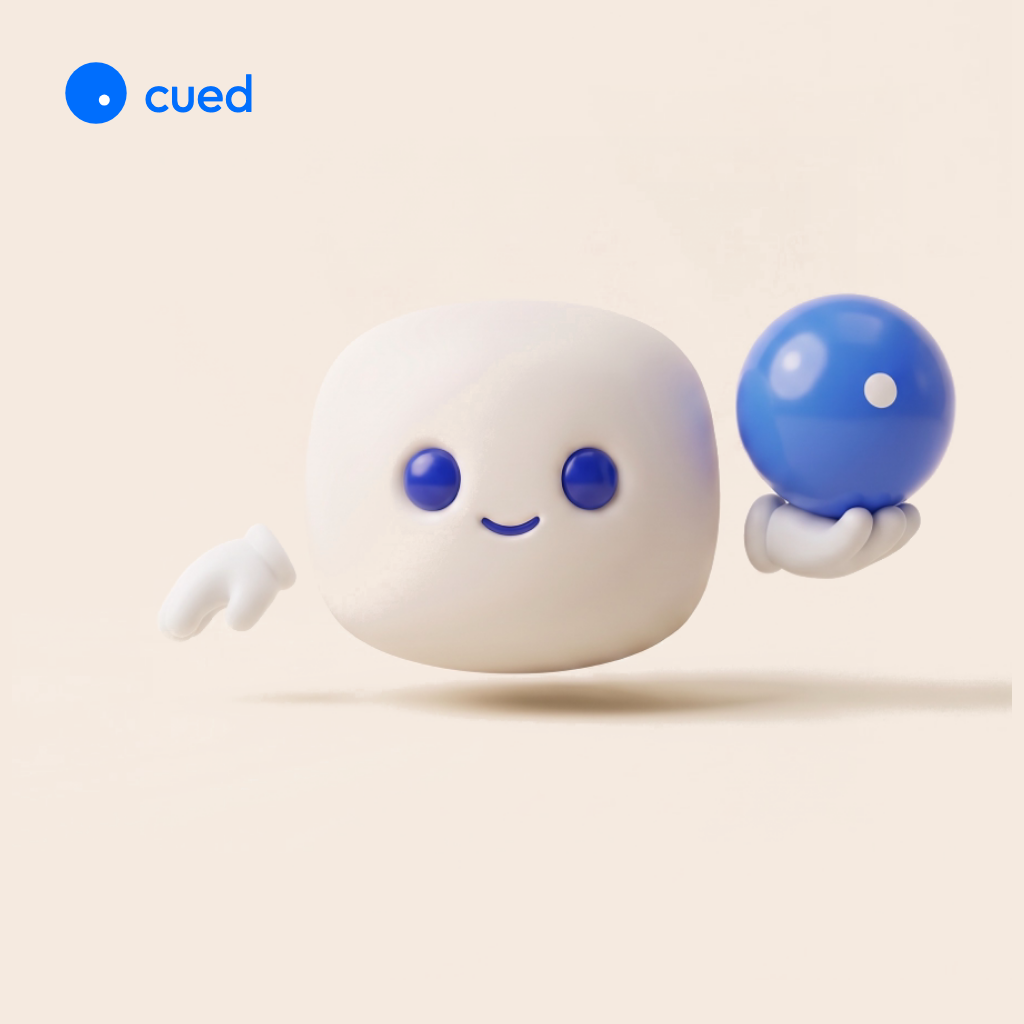
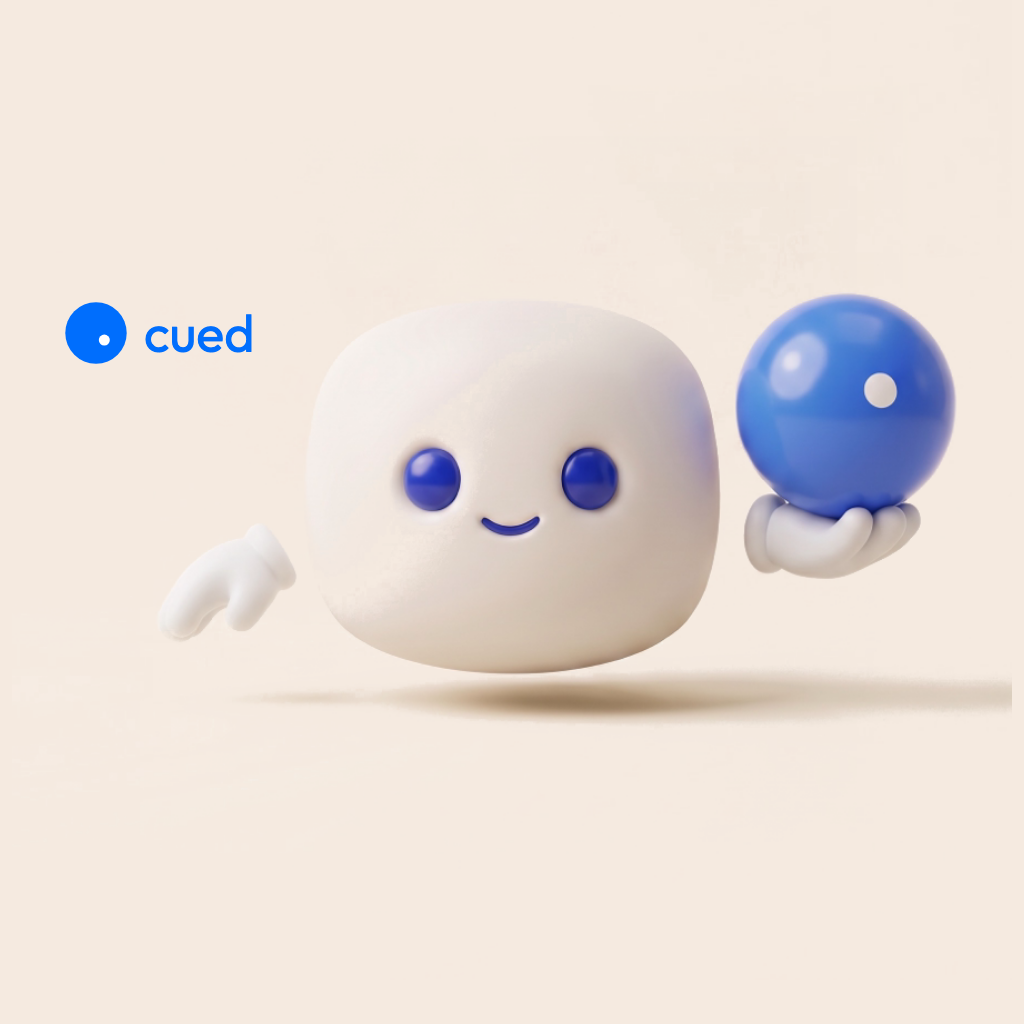
demo-site share card: "the fitness coach that lives in your texts."; wide image first so Instagram keeps the brand
Instagram crops the first og:image to landscape — square-first lost the
brand off the top. Wide goes first now (iMessage plays the video either
way), and the square's brand moves into the centre band so a landscape
crop still keeps it. Card line and og/twitter titles gain "fitness".

Changed region(s): [[0.0625, 0.0625, 0.25, 0.125], [0.0625, 0.2812, 0.25, 0.375]]

diff --git a/demo-site/index.html b/demo-site/index.html
@@ -31,32 +31,33 @@
 <title>cued — the fitness coach that lives in your texts.</title>
 <meta name="description" content="Cued is an AI fitness coach for college students that works over iMessage or SMS: workouts, meals and check-ins planned around your real schedule. With your permission it reads your Google Calendar, Canvas and Fitbit/Pixel Watch (Google Health).">
 <!-- Link-preview card. Absolute URLs on purpose — many scrapers (iMessage,
-     Slack, X) ignore root-relative image paths. Square first for the chat apps
-     that crop to square; wide for timelines. og:video lets iMessage (and a few
+     Slack, X) ignore root-relative image paths. WIDE first: Instagram and the
+     timeline apps crop the first image to landscape (square-first lost the
+     brand off the top, 2026-11-14); iMessage plays the video regardless. og:video lets iMessage (and a few
      others) play the hero clip in the bubble; everything else falls back to the
      image. Regenerate the images from .context/og/card.html + square.html. -->
 <meta property="og:site_name" content="cued">
-<meta property="og:title" content="cued — the coach that lives in your texts.">
+<meta property="og:title" content="cued — the fitness coach that lives in your texts.">
 <meta property="og:description" content="an AI fitness coach over iMessage or SMS. it knows your classes, replaces your lift and meal apps, and texts first. nothing to download.">
 <meta property="og:url" content="https://cued.fit/demo-site/">
 <meta property="og:type" content="website">
+<meta property="og:image" content="https://cued.fit/images/og-image-cued-v2.png">
+<meta property="og:image:width" content="1200">
+<meta property="og:image:height" content="630">
+<meta property="og:image:type" content="image/png">
+<meta property="og:image:alt" content="cued — the fitness coach that lives in your texts.">
 <meta property="og:image" content="https://cued.fit/images/og-image-cued-v2-square.png">
 <meta property="og:image:width" content="1024">
 <meta property="og:image:height" content="1024">
 <meta property="og:image:type" content="image/png">
 <meta property="og:image:alt" content="cued, a round white mascot holding a blue cue ball, on cream.">
-<meta property="og:image" content="https://cued.fit/images/og-image-cued-v2.png">
-<meta property="og:image:width" content="1200">
-<meta property="og:image:height" content="630">
-<meta property="og:image:type" content="image/png">
-<meta property="og:image:alt" content="cued — the coach that lives in your texts.">
 <meta property="og:video" content="https://cued.fit/assets/hero/cued-hero.mp4">
 <meta property="og:video:secure_url" content="https://cued.fit/assets/hero/cued-hero.mp4">
 <meta property="og:video:type" content="video/mp4">
 <meta property="og:video:width" content="1280">
 <meta property="og:video:height" content="720">
 <meta name="twitter:card" content="summary_large_image">
-<meta name="twitter:title" content="cued — the coach that lives in your texts.">
+<meta name="twitter:title" content="cued — the fitness coach that lives in your texts.">
 <meta name="twitter:description" content="an AI fitness coach over iMessage or SMS. it knows your classes, replaces your lift and meal apps, and texts first. nothing to download.">
 <meta name="twitter:image" content="https://cued.fit/images/og-image-cued-v2.png">
 <link rel="icon" type="image/svg+xml" href="/images/favicon.svg">

diff --git a/CLAUDE.md b/CLAUDE.md
@@ -102,6 +102,6 @@ Below the hero, the tour is a plain vertical flow (`.sec--pin` is now just a hoo
 - `images/hero-drawing.png` — the `the-one.png` Campanile drawing, cropped to the art band (1920×650), paper-gray background keyed to transparency, ink recolored to the brand blue. Referenced by the `index.html` hero, shown fully drawn at load (the SVG stroke-mask trace machinery remains but is set complete — see the `.hero-art` comment in `index.html`).
 - `images/dinner-plate.jpg` — real plate photo (tri-tip, sweet potatoes, broccoli/cauliflower) sent as the user's photo attachment in the "i know what's for dinner" section (1000×855 JPEG).
 - `images/tj-receipt.jpg` — real Trader Joe's receipt photo (Berkeley, 1885 University Ave), formerly the user's photo attachment in the "i read receipts" section (972×1200 JPEG). Unreferenced since the 2026-10-05 tour compression; kept in case the receipt beat returns.
-- `images/og-image-cued.png` and `og-image-cued-square.png` are the root page's link-preview cards (previous design's blue, `#1086FF`; still need regenerating). `images/og-image-cued-v2.png` (1200×630) and `og-image-cued-v2-square.png` (1024²) are the demo-site's: the ball-render mascot on cream with the brand and "the coach that lives in your texts." — composed in `.context/og/card.html` / `square.html` and rendered with headless Chrome (2026-11-14). The demo page's tags use ABSOLUTE `https://cued.fit/…` URLs (root-relative ones are ignored by iMessage/Slack/X scrapers), square first for chat apps, and `og:video` pointing at the hero's first clip so iMessage plays it in the bubble; everything else shows the image.
+- `images/og-image-cued.png` and `og-image-cued-square.png` are the root page's link-preview cards (previous design's blue, `#1086FF`; still need regenerating). `images/og-image-cued-v2.png` (1200×630) and `og-image-cued-v2-square.png` (1024²) are the demo-site's: the ball-render mascot on cream with the brand and "the coach that lives in your texts." — composed in `.context/og/card.html` / `square.html` and rendered with headless Chrome (2026-11-14). The demo page's tags use ABSOLUTE `https://cued.fit/…` URLs (root-relative ones are ignored by iMessage/Slack/X scrapers), WIDE first (Instagram crops the first image to landscape — square-first cut the brand off; verified in an Instagram DM 2026-11-14), square second with its brand placed in the centre band so a landscape crop keeps it, and `og:video` pointing at the hero's first clip, which iMessage plays in the bubble (confirmed); everything else shows the image. Card line: "the fitness coach that lives in your texts."
 - Assets from previous design generations (hero backgrounds, `the-one.png` source drawing, wearable photo) remain in `images/` but are unreferenced by `index.html`.
 - Git LFS is configured for `videos/*.mp4` (see `.gitattributes`).
